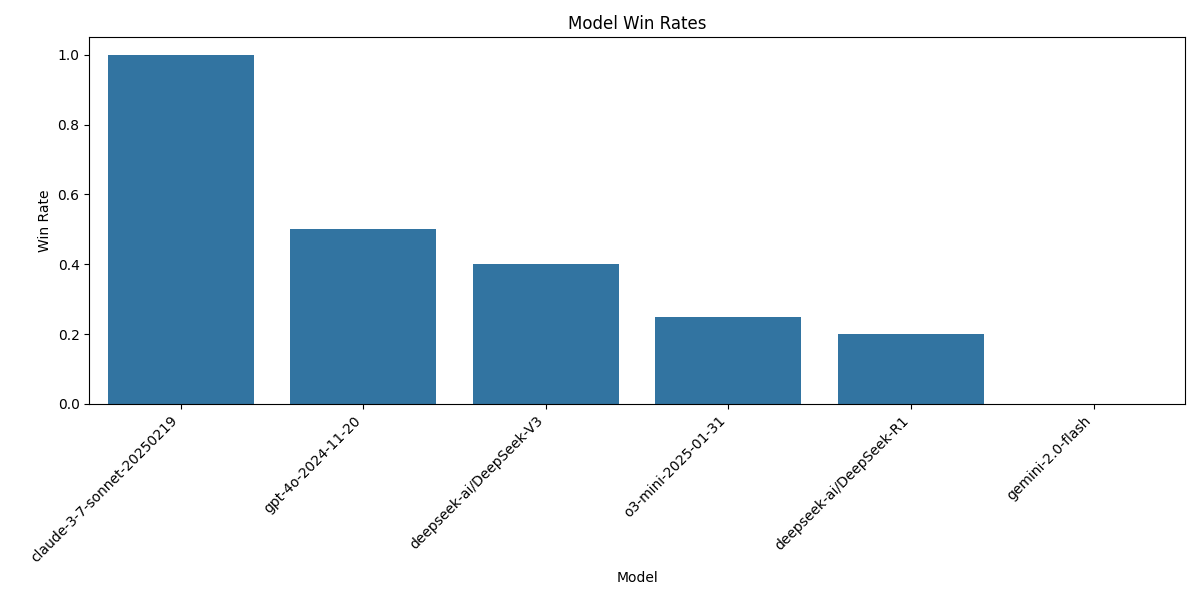
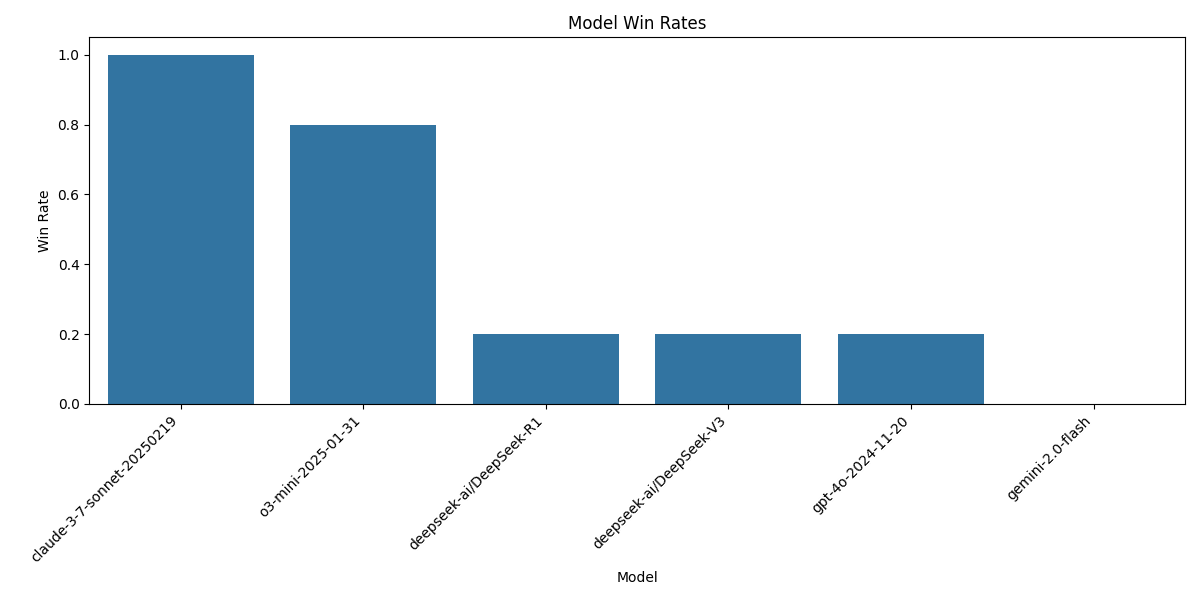
adding max win rates across scaffolds

diff --git a/analysis.py b/analysis.py
@@ -5,6 +5,78 @@ import seaborn as sns
 from tqdm import tqdm
 from src.dataloaders.abstract import DataCombiner
 
+def calculate_max_win_rates(df, group_by_cols=['benchmark_name'], group_by_cols_2='model_name_short'):
+    """
+    Calculate win rates for each model across different benchmarks using the maximum accuracy
+    each model achieves across all agent scaffolds.
+    
+    Args:
+        df: DataFrame containing the results
+        group_by_cols: Columns to group by (control variables)
+        group_by_cols_2: Column representing the models to compare
+        
+    Returns:
+        DataFrame with win rates for each model
+    """
+    
+    # Create a results container
+    all_results = []
+    
+    # First, find the maximum accuracy for each model across all agents for each benchmark
+    max_accuracies = {}
+    
+    for benchmark, benchmark_group in df.groupby('benchmark_name'):
+        max_accuracies[benchmark] = {}
+        
+        for model in benchmark_group[group_by_cols_2].unique():
+            # Get all accuracies for this model across different agents in this benchmark
+            model_accuracies = benchmark_group[benchmark_group[group_by_cols_2] == model]['accuracy']
+
+            # Store the maximum accuracy
+            max_accuracies[benchmark][model] = model_accuracies.max()
+    
+    # Group by the control variables (benchmarks)
+    for name, group in df.groupby(group_by_cols):
+        benchmark = name if not isinstance(name, tuple) else name[0]
+        
+        # Get unique models for this benchmark
+        models = df[df['benchmark_name'] == benchmark][group_by_cols_2].unique()
+        
+        for model_a in models:
+            wins = 0
+            comparisons = 0
+            
+            for model_b in models:
+                if model_a == model_b:
+                    continue
+                    
+                acc_a = max_accuracies[benchmark][model_a]
+                acc_b = max_accuracies[benchmark][model_b]
+                
+                if acc_a > acc_b:
+                    wins += 1
+                
+                comparisons += 1
+            
+            # Calculate win rate
+            win_rate = wins / comparisons if comparisons > 0 else np.nan
+            
+            # Store the result
+            result = {
+                group_by_cols_2: model_a,
+                'win_rate': win_rate,
+                'wins': wins,
+                'comparisons': comparisons
+            }
+            
+            # Add the group information
+            for i, col in enumerate(group_by_cols):
+                result[col] = name[i] if isinstance(name, tuple) else name
+                
+            all_results.append(result)
+    
+    return pd.DataFrame(all_results)
+
 def calculate_win_rates(df, group_by_cols=['benchmark_name', 'agent_name_short'], group_by_cols_2='model_name_short'):
     """
     Calculate win rates for each model across different benchmarks and agent scaffolds.
@@ -16,6 +88,8 @@ def calculate_win_rates(df, group_by_cols=['benchmark_name', 'agent_name_short']
     Returns:
         DataFrame with win rates for each model
     """
+
+
     # Create a results container
     all_results = []
     
@@ -127,7 +201,7 @@ def main():
         combined_df = pd.concat(all_data, ignore_index=True)
         
         # Calculate win rates
-        win_rates = calculate_win_rates(combined_df)
+        win_rates = calculate_max_win_rates(combined_df)
         
         # Aggregate by model
         model_win_rates = aggregate_win_rates(win_rates)

diff --git a/pareto_optimal.py b/pareto_optimal.py
@@ -3,7 +3,7 @@ import numpy as np
 import matplotlib.pyplot as plt
 import seaborn as sns
 from src.dataloaders.abstract import DataCombiner
-from analysis import calculate_win_rates, aggregate_win_rates
+from analysis import calculate_win_rates, calculate_max_win_rates, aggregate_win_rates
 
 
 def calculate_pareto_frontier(df, group_by_cols=['benchmark_name', 'agent_name_short']):
@@ -364,7 +364,7 @@ def main():
         plt.savefig('model_pareto_frontier.png')
         
         # Calculate win rates for models
-        model_win_rates = calculate_win_rates(combined_df)
+        model_win_rates = calculate_max_win_rates(combined_df)
         model_win_rates_agg = aggregate_win_rates(model_win_rates)
         
         # Merge win rates with cost data
